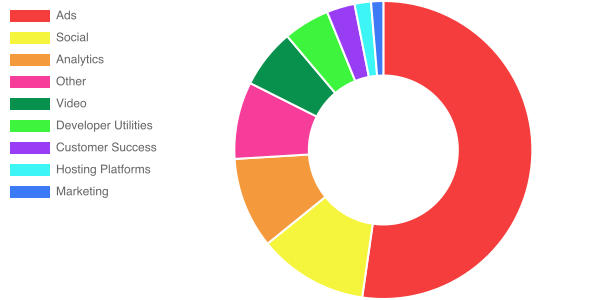
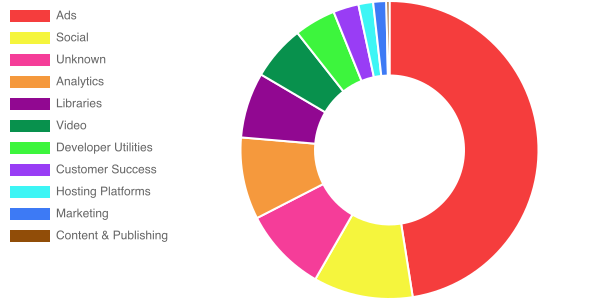
feat: add more entities

diff --git a/bin/merge-origins-with-entities.js b/bin/merge-origins-with-entities.js
@@ -83,16 +83,33 @@ const homelessGrouped = _(homelessEntries)
   .reverse()
   .value()
 
-const sortedEntityData = _(entityData)
+const homelessMegaEntity = {
+  ...combineGroup(homelessEntries),
+  name: 'All Other 3rd Parties',
+  homepage: '#by-category',
+  domain: '<all others>',
+  categories: ['other'],
+}
+
+const sortedEntityData = _(entityData.concat(homelessMegaEntity))
   .sortBy('averageExecutionTime')
   .sortBy('totalExecutionTime')
   .reverse()
   .value()
 
 console.log(homelessGrouped.length, 'domains without attribution')
-console.log(homelessGrouped.map(item => [item.domain, item.origins.join(',')]))
+console.log(
+  homelessGrouped.map(item => [
+    item.domain,
+    item.origins.join(','),
+    Math.round(item.totalExecutionTime / 1000).toLocaleString(),
+  ]),
+)
 
-const top100ExecutionTime = _.sumBy(sortedEntityData.slice(0, 100), 'totalExecutionTime')
+const top100ExecutionTime = _.sumBy(
+  sortedEntityData.filter(e => e !== homelessMegaEntity).slice(0, 100),
+  'totalExecutionTime',
+)
 console.log(
   'Top 100 Entities representing',
   ((top100ExecutionTime / GLOBAL_EXECUTION_TIME) * 100).toFixed(2),

diff --git a/README.md b/README.md
@@ -7,7 +7,8 @@ This document is a summary of which third party scripts are most responsible for
 1.  [Goals](#goals)
 1.  [Methodology](#methodology)
 1.  [Data](#data)
-    1.  [How to Interpret](#how-to-interpet)
+    1.  [Summary](#summary)
+    1.  [How to Interpret](#how-to-interpret)
     1.  [Third Parties by Category](#by-category)
         1.  [Ads](#ad)
         1.  [Analytics](#analytics)
@@ -17,7 +18,9 @@ This document is a summary of which third party scripts are most responsible for
         1.  [Hosting Platforms](#hosting)
         1.  [Marketing](#marketing)
         1.  [Customer Success](#customer-success)
-        1.  [Other](#other)
+        1.  [Content & Publishing](#content)
+        1.  [Libraries](#library)
+        1.  [Unknown](#other)
     1.  [Third Parties by Total Impact](#by-total-impact)
 1.  [Future Work](#future-work)
 1.  [FAQs](#faqs)
@@ -67,24 +70,27 @@ Unsurprisingly, ads account for the largest chunk of third party script executio
 
 These scripts are part of advertising networks, either serving or measuring.
 
-| Rank | Name                                               | Popularity | Average Impact |
-| ---- | -------------------------------------------------- | ---------- | -------------- |
-| 1    | [Criteo](https://www.criteo.com/)                  | 1,879      | 85 ms          |
-| 2    | [Pubmatic](https://pubmatic.com/)                  | 4,462      | 98 ms          |
-| 3    | [Market GID](https://www.marketgid.com/)           | 1,510      | 134 ms         |
-| 4    | [MGID](https://www.mgid.com/)                      | 2,555      | 147 ms         |
-| 5    | [Taboola](https://www.taboola.com/)                | 2,848      | 211 ms         |
-| 6    | [Yahoo Ads](https://www.media.net/)                | 1,990      | 252 ms         |
-| 7    | [AppNexus](https://www.appnexus.com/)              | 2,742      | 266 ms         |
-| 8    | [Google Ads](https://www.google.com/adsense/start) | 389,341    | 445 ms         |
-| 9    | [Integral Ads](https://integralads.com/uk/)        | 6,679      | 447 ms         |
-| 10   | [DoubleVerify](https://www.doubleverify.com/)      | 2,752      | 513 ms         |
-| 11   | [Yandex Ads](https://yandex.com/adv/)              | 4,810      | 515 ms         |
-| 12   | [Media Math](http://www.mediamath.com/)            | 1,523      | 807 ms         |
-| 13   | [Moat](https://moat.com/)                          | 5,599      | 826 ms         |
-| 14   | [MediaVine](https://www.mediavine.com/)            | 1,269      | 1137 ms        |
-| 15   | [WordAds](https://wordads.co/)                     | 766        | 1979 ms        |
-| 16   | [Popads](https://www.popads.net/)                  | 2,808      | 2387 ms        |
+| Rank | Name                                                           | Popularity | Average Impact |
+| ---- | -------------------------------------------------------------- | ---------- | -------------- |
+| 1    | [Criteo](https://www.criteo.com/)                              | 1,879      | 85 ms          |
+| 2    | [Pubmatic](https://pubmatic.com/)                              | 4,462      | 98 ms          |
+| 3    | [Market GID](https://www.marketgid.com/)                       | 1,510      | 134 ms         |
+| 4    | [MGID](https://www.mgid.com/)                                  | 2,555      | 147 ms         |
+| 5    | [Taboola](https://www.taboola.com/)                            | 2,848      | 211 ms         |
+| 6    | [Scorecard Research](https://www.scorecardresearch.com/)       | 479        | 251 ms         |
+| 7    | [Yahoo Ads](https://www.media.net/)                            | 1,990      | 252 ms         |
+| 8    | [AppNexus](https://www.appnexus.com/)                          | 2,742      | 266 ms         |
+| 9    | [Google/Doubleclick Ads](https://www.doubleclickbygoogle.com/) | 389,341    | 445 ms         |
+| 10   | [Integral Ads](https://integralads.com/uk/)                    | 6,679      | 447 ms         |
+| 11   | [DoubleVerify](https://www.doubleverify.com/)                  | 2,752      | 513 ms         |
+| 12   | [Yandex Ads](https://yandex.com/adv/)                          | 4,810      | 515 ms         |
+| 13   | [Sizmek](https://www.sizmek.com/)                              | 1,435      | 598 ms         |
+| 14   | [Media Math](http://www.mediamath.com/)                        | 1,523      | 807 ms         |
+| 15   | [Moat](https://moat.com/)                                      | 5,599      | 826 ms         |
+| 16   | [TrafficJunky](https://www.trafficjunky.com/)                  | 1,527      | 1126 ms        |
+| 17   | [MediaVine](https://www.mediavine.com/)                        | 1,269      | 1137 ms        |
+| 18   | [WordAds](https://wordads.co/)                                 | 766        | 1979 ms        |
+| 19   | [Popads](https://www.popads.net/)                              | 2,808      | 2387 ms        |
 
 <a name="analytics"></a>
 
@@ -94,19 +100,21 @@ These scripts measure or track users and their actions. There's a wide range in 
 
 | Rank | Name                                                               | Popularity | Average Impact |
 | ---- | ------------------------------------------------------------------ | ---------- | -------------- |
-| 1    | [Mixpanel](https://mixpanel.com/)                                  | 1,371      | 75 ms          |
-| 2    | [Google Analytics](https://www.google.com/analytics/analytics/)    | 205,702    | 85 ms          |
-| 3    | [Baidu Analytics](https://tongji.baidu.com/web/welcome/login)      | 12,744     | 90 ms          |
-| 4    | [Hotjar](https://www.hotjar.com/)                                  | 17,635     | 91 ms          |
-| 5    | [Adobe Analytics](https://www.adobe.com/analytics-cloud.html)      | 5,767      | 220 ms         |
-| 6    | [Salesforce](https://www.salesforce.com/products/marketing-cloud/) | 4,804      | 251 ms         |
-| 7    | [Tealium](https://tealium.com/)                                    | 3,066      | 254 ms         |
-| 8    | [Optimizely](https://www.optimizely.com/)                          | 4,671      | 296 ms         |
-| 9    | [Segment](https://segment.com/)                                    | 1,839      | 301 ms         |
-| 10   | [Histats](http://histats.com/)                                     | 1,524      | 341 ms         |
-| 11   | [Connexity](http://connexity.com/)                                 | 1,744      | 361 ms         |
-| 12   | [Yandex Metrica](https://metrica.yandex.com/about?)                | 26,891     | 371 ms         |
-| 13   | [Lucky Orange](https://www.luckyorange.com/)                       | 857        | 937 ms         |
+| 1    | [Alexa](https://www.alexa.com/)                                    | 205        | 46 ms          |
+| 2    | [Mixpanel](https://mixpanel.com/)                                  | 1,371      | 75 ms          |
+| 3    | [Google Analytics](https://www.google.com/analytics/analytics/)    | 205,702    | 85 ms          |
+| 4    | [Baidu Analytics](https://tongji.baidu.com/web/welcome/login)      | 12,744     | 90 ms          |
+| 5    | [Hotjar](https://www.hotjar.com/)                                  | 17,635     | 91 ms          |
+| 6    | [Crazy Egg](https://www.crazyegg.com/)                             | 379        | 97 ms          |
+| 7    | [Adobe Analytics](https://www.adobe.com/analytics-cloud.html)      | 5,767      | 220 ms         |
+| 8    | [Salesforce](https://www.salesforce.com/products/marketing-cloud/) | 4,804      | 251 ms         |
+| 9    | [Tealium](https://tealium.com/)                                    | 3,066      | 254 ms         |
+| 10   | [Optimizely](https://www.optimizely.com/)                          | 4,671      | 296 ms         |
+| 11   | [Segment](https://segment.com/)                                    | 1,839      | 301 ms         |
+| 12   | [Histats](http://histats.com/)                                     | 1,524      | 341 ms         |
+| 13   | [Connexity](http://connexity.com/)                                 | 1,744      | 361 ms         |
+| 14   | [Yandex Metrica](https://metrica.yandex.com/about?)                | 27,474     | 369 ms         |
+| 15   | [Lucky Orange](https://www.luckyorange.com/)                       | 857        | 937 ms         |
 
 <a name="social"></a>
 
@@ -118,12 +126,14 @@ These scripts enable social features.
 | ---- | ---------------------------------------------------- | ---------- | -------------- |
 | 1    | [VK](https://vk.com/)                                | 4,227      | 30 ms          |
 | 2    | [Pinterest](https://pinterest.com/)                  | 410        | 61 ms          |
-| 3    | [Yandex Share](https://yastatic.net/share2/share.js) | 6,865      | 135 ms         |
-| 4    | [Twitter](https://twitter.com)                       | 37,744     | 151 ms         |
-| 5    | [Facebook](https://www.facebook.com)                 | 162,080    | 169 ms         |
-| 6    | [AddThis](http://www.addthis.com/)                   | 36,499     | 202 ms         |
-| 7    | [Tumblr](https://tumblr.com/)                        | 4,717      | 409 ms         |
-| 8    | [ShareThis](https://www.sharethis.com/)              | 3,746      | 477 ms         |
+| 3    | [LinkedIn](https://www.linkedin.com/)                | 990        | 124 ms         |
+| 4    | [Yandex Share](https://yastatic.net/share2/share.js) | 6,865      | 135 ms         |
+| 5    | [Twitter](https://twitter.com)                       | 37,744     | 151 ms         |
+| 6    | [Facebook](https://www.facebook.com)                 | 162,080    | 169 ms         |
+| 7    | [AddThis](http://www.addthis.com/)                   | 36,499     | 202 ms         |
+| 8    | [Tumblr](https://tumblr.com/)                        | 4,717      | 409 ms         |
+| 9    | [ShareThis](https://www.sharethis.com/)              | 3,746      | 477 ms         |
+| 10   | [Disqus](http://disqus.com/)                         | 534        | 680 ms         |
 
 <a name="video"></a>
 
@@ -131,12 +141,13 @@ These scripts enable social features.
 
 These scripts enable video player and streaming functionality.
 
-| Rank | Name                           | Popularity | Average Impact |
-| ---- | ------------------------------ | ---------- | -------------- |
-| 1    | [Vimeo](http://vimeo.com/)     | 3,543      | 140 ms         |
-| 2    | [Wistia](https://wistia.com/)  | 5,062      | 266 ms         |
-| 3    | [YouTube](https://youtube.com) | 54,390     | 411 ms         |
-| 4    | [Twitch](https://twitch.tv/)   | 319        | 701 ms         |
+| Rank | Name                                         | Popularity | Average Impact |
+| ---- | -------------------------------------------- | ---------- | -------------- |
+| 1    | [Vimeo](http://vimeo.com/)                   | 3,543      | 140 ms         |
+| 2    | [Wistia](https://wistia.com/)                | 5,062      | 266 ms         |
+| 3    | [YouTube](https://youtube.com)               | 54,390     | 411 ms         |
+| 4    | [Brightcove](https://www.brightcove.com/en/) | 1,283      | 576 ms         |
+| 5    | [Twitch](https://twitch.tv/)                 | 319        | 701 ms         |
 
 <a name="utility"></a>
 
@@ -180,9 +191,11 @@ These scripts are from marketing tools that add popups/newsletters/etc.
 | ---- | ----------------------------------------- | ---------- | -------------- |
 | 1    | [Hubspot](https://hubspot.com/)           | 4,887      | 92 ms          |
 | 2    | [Mailchimp](https://mailchimp.com/)       | 872        | 194 ms         |
-| 3    | [OptinMonster](https://optinmonster.com/) | 2,352      | 324 ms         |
-| 4    | [Sumo](https://sumo.com/)                 | 6,677      | 379 ms         |
-| 5    | [Drift](https://www.drift.com/)           | 2,315      | 482 ms         |
+| 3    | [Beeketing](https://beeketing.com/)       | 1,360      | 272 ms         |
+| 4    | [OptinMonster](https://optinmonster.com/) | 2,352      | 324 ms         |
+| 5    | [Sumo](https://sumo.com/)                 | 6,677      | 379 ms         |
+| 6    | [Drift](https://www.drift.com/)           | 2,315      | 482 ms         |
+| 7    | [Albacross](https://albacross.com/)       | 158        | 3847 ms        |
 
 <a name="customer-success"></a>
 
@@ -193,30 +206,55 @@ These scripts are from customer support/marketing providers that offer chat and 
 | Rank | Name                                     | Popularity | Average Impact |
 | ---- | ---------------------------------------- | ---------- | -------------- |
 | 1    | [LiveChat](https://www.livechatinc.com/) | 6,252      | 178 ms         |
-| 2    | [Tawk.to](https://www.tawk.to/)          | 2,574      | 278 ms         |
-| 3    | [Olark](https://www.olark.com/)          | 2,734      | 318 ms         |
-| 4    | [Intercom](https://www.intercom.com/)    | 2,795      | 721 ms         |
-| 5    | [Zopim](https://www.zopim.com/)          | 6,367      | 726 ms         |
-| 6    | [ZenDesk](https://zendesk.com/)          | 2,927      | 766 ms         |
+| 2    | [Freshdesk](https://freshdesk.com/)      | 368        | 187 ms         |
+| 3    | [Help Scout](https://www.helpscout.net/) | 228        | 239 ms         |
+| 4    | [Tawk.to](https://www.tawk.to/)          | 2,574      | 278 ms         |
+| 5    | [Olark](https://www.olark.com/)          | 2,734      | 318 ms         |
+| 6    | [Intercom](https://www.intercom.com/)    | 2,795      | 721 ms         |
+| 7    | [Zopim](https://www.zopim.com/)          | 6,367      | 726 ms         |
+| 8    | [ZenDesk](https://zendesk.com/)          | 2,927      | 766 ms         |
 
-<a name="other"></a>
+<a name="content"></a>
 
-#### Other
+#### Content & Publishing
 
-These are miscellaneous scripts delivered via a shared CDN. This category is unique in that the origin may have no responsibility for the performance of what's being served. Note that rank here does not imply one CDN is better than the other. It simply indicates that the scripts being served from that origin are lighter/heavier than the ones served by another.
+These scripts are from content providers or publishing-specific affiliate tracking.
+
+| Rank | Name                                      | Popularity | Average Impact |
+| ---- | ----------------------------------------- | ---------- | -------------- |
+| 1    | [Vox Media](https://www.voxmedia.com/)    | 355        | 360 ms         |
+| 2    | [AMP](https://www.ampproject.org/)        | 1,107      | 366 ms         |
+| 3    | [SoundCloud](https://www.soundcloud.com/) | 499        | 939 ms         |
+| 4    | [Hotmart](https://www.hotmart.com/)       | 114        | 3814 ms        |
+
+<a name="library"></a>
+
+#### Libraries
+
+These are mostly open source libraries (e.g. jQuery) served over different public CDNs. This category is unique in that the origin may have no responsibility for the performance of what's being served. Note that rank here does not imply one CDN is better than the other. It simply indicates that the libraries being served from that origin are lighter/heavier than the ones served by another..
 
 | Rank | Name                                                         | Popularity | Average Impact |
 | ---- | ------------------------------------------------------------ | ---------- | -------------- |
-| 1    | [Bootstrap CDN](https://bootstrapcdn.com/)                   | 213        | 45 ms          |
-| 2    | [FontAwesome CDN](https://fontawesome.com/)                  | 1,275      | 101 ms         |
-| 3    | [Yandex CDN](https://yandex.ru/)                             | 311        | 167 ms         |
-| 4    | [jQuery CDN](https://code.jquery.com/)                       | 20,140     | 168 ms         |
+| 1    | [FontAwesome CDN](https://fontawesome.com/)                  | 1,275      | 101 ms         |
+| 2    | [Yandex CDN](https://yandex.ru/)                             | 311        | 167 ms         |
+| 3    | [jQuery CDN](https://code.jquery.com/)                       | 20,140     | 168 ms         |
+| 4    | [Bootstrap CDN](https://bootstrapcdn.com/)                   | 804        | 190 ms         |
 | 5    | [Cloudflare CDN](https://cdnjs.com/)                         | 15,088     | 192 ms         |
 | 6    | [Google CDN](https://developers.google.com/speed/libraries/) | 85,536     | 212 ms         |
-| 7    | [Amazon S3](https://aws.amazon.com/s3/)                      | 2,625      | 222 ms         |
-| 8    | [JSDelivr](https://www.jsdelivr.com/)                        | 3,537      | 351 ms         |
-| 9    | [Parking Crew](http://parkingcrew.net/)                      | 2,887      | 426 ms         |
-| 10   | [CreateJS CDN](http://code.createjs.com/)                    | 1,685      | 2457 ms        |
+| 7    | [JSDelivr CDN](https://www.jsdelivr.com/)                    | 3,537      | 351 ms         |
+| 8    | [CreateJS CDN](http://code.createjs.com/)                    | 1,685      | 2457 ms        |
+
+<a name="other"></a>
+
+#### Unknown
+
+These are miscellaneous scripts delivered via a shared origin with no clean category or attribution. Help us out by identifying more origins!
+
+| Rank | Name                                    | Popularity | Average Impact |
+| ---- | --------------------------------------- | ---------- | -------------- |
+| 1    | [Amazon S3](https://aws.amazon.com/s3/) | 2,625      | 222 ms         |
+| 2    | [All Other 3rd Parties](#by-category)   | 139,040    | 266 ms         |
+| 3    | [Parking Crew](http://parkingcrew.net/) | 2,887      | 426 ms         |
 
 <a name="by-total-impact"></a>
 
@@ -226,13 +264,14 @@ This section highlights the entities responsible for the most script execution a
 
 | Name                                                               | Popularity | Total Impact | Average Impact |
 | ------------------------------------------------------------------ | ---------- | ------------ | -------------- |
-| [Google Ads](https://www.google.com/adsense/start)                 | 389,341    | 173,140 s    | 445 ms         |
+| [Google/Doubleclick Ads](https://www.doubleclickbygoogle.com/)     | 389,341    | 173,140 s    | 445 ms         |
+| [All Other 3rd Parties](#by-category)                              | 139,040    | 36,972 s     | 266 ms         |
 | [Facebook](https://www.facebook.com)                               | 162,080    | 27,354 s     | 169 ms         |
 | [YouTube](https://youtube.com)                                     | 54,390     | 22,358 s     | 411 ms         |
 | [Google CDN](https://developers.google.com/speed/libraries/)       | 85,536     | 18,098 s     | 212 ms         |
 | [Google Analytics](https://www.google.com/analytics/analytics/)    | 205,702    | 17,504 s     | 85 ms          |
 | [Google APIs/SDK](https://developers.google.com/apis-explorer/#p/) | 104,190    | 13,031 s     | 125 ms         |
-| [Yandex Metrica](https://metrica.yandex.com/about?)                | 26,891     | 9,968 s      | 371 ms         |
+| [Yandex Metrica](https://metrica.yandex.com/about?)                | 27,474     | 10,140 s     | 369 ms         |
 | [AddThis](http://www.addthis.com/)                                 | 36,499     | 7,383 s      | 202 ms         |
 | [Popads](https://www.popads.net/)                                  | 2,808      | 6,702 s      | 2387 ms        |
 | [Twitter](https://twitter.com)                                     | 37,744     | 5,689 s      | 151 ms         |
@@ -250,6 +289,7 @@ This section highlights the entities responsible for the most script execution a
 | [Tumblr](https://tumblr.com/)                                      | 4,717      | 1,931 s      | 409 ms         |
 | [Shopify](https://www.shopify.com/)                                | 8,537      | 1,855 s      | 217 ms         |
 | [ShareThis](https://www.sharethis.com/)                            | 3,746      | 1,787 s      | 477 ms         |
+| [TrafficJunky](https://www.trafficjunky.com/)                      | 1,527      | 1,720 s      | 1126 ms        |
 | [Sentry](https://sentry.io/)                                       | 2,268      | 1,676 s      | 739 ms         |
 | [Hotjar](https://www.hotjar.com/)                                  | 17,635     | 1,613 s      | 91 ms          |
 | [WordAds](https://wordads.co/)                                     | 766        | 1,516 s      | 1979 ms        |
@@ -260,7 +300,7 @@ This section highlights the entities responsible for the most script execution a
 | [Cloudflare](https://www.cloudflare.com/website-optimization/)     | 4,398      | 1,320 s      | 300 ms         |
 | [Yandex APIs](https://yandex.ru/)                                  | 3,558      | 1,303 s      | 366 ms         |
 | [Adobe Analytics](https://www.adobe.com/analytics-cloud.html)      | 5,767      | 1,269 s      | 220 ms         |
-| [JSDelivr](https://www.jsdelivr.com/)                              | 3,537      | 1,243 s      | 351 ms         |
+| [JSDelivr CDN](https://www.jsdelivr.com/)                          | 3,537      | 1,243 s      | 351 ms         |
 | [Media Math](http://www.mediamath.com/)                            | 1,523      | 1,230 s      | 807 ms         |
 | [Parking Crew](http://parkingcrew.net/)                            | 2,887      | 1,229 s      | 426 ms         |
 | [Salesforce](https://www.salesforce.com/products/marketing-cloud/) | 4,804      | 1,205 s      | 251 ms         |
@@ -270,13 +310,16 @@ This section highlights the entities responsible for the most script execution a
 | [Yandex Share](https://yastatic.net/share2/share.js)               | 6,865      | 928 s        | 135 ms         |
 | [WordPress](https://wp.com/)                                       | 7,118      | 890 s        | 125 ms         |
 | [Olark](https://www.olark.com/)                                    | 2,734      | 868 s        | 318 ms         |
+| [Sizmek](https://www.sizmek.com/)                                  | 1,435      | 857 s        | 598 ms         |
 | [Squarespace](https://www.squarespace.com/)                        | 2,115      | 825 s        | 390 ms         |
 | [Lucky Orange](https://www.luckyorange.com/)                       | 857        | 803 s        | 937 ms         |
 | [Tealium](https://tealium.com/)                                    | 3,066      | 779 s        | 254 ms         |
 | [OptinMonster](https://optinmonster.com/)                          | 2,352      | 761 s        | 324 ms         |
+| [Brightcove](https://www.brightcove.com/en/)                       | 1,283      | 739 s        | 576 ms         |
 | [AppNexus](https://www.appnexus.com/)                              | 2,742      | 731 s        | 266 ms         |
 | [Tawk.to](https://www.tawk.to/)                                    | 2,574      | 717 s        | 278 ms         |
 | [Connexity](http://connexity.com/)                                 | 1,744      | 629 s        | 361 ms         |
+| [Albacross](https://albacross.com/)                                | 158        | 608 s        | 3847 ms        |
 | [OneSignal](https://onesignal.com/)                                | 6,420      | 600 s        | 93 ms          |
 | [Taboola](https://www.taboola.com/)                                | 2,848      | 600 s        | 211 ms         |
 | [Amazon S3](https://aws.amazon.com/s3/)                            | 2,625      | 583 s        | 222 ms         |
@@ -285,23 +328,35 @@ This section highlights the entities responsible for the most script execution a
 | [Distil Networks](https://www.distilnetworks.com/)                 | 1,745      | 519 s        | 298 ms         |
 | [Yahoo Ads](https://www.media.net/)                                | 1,990      | 501 s        | 252 ms         |
 | [Vimeo](http://vimeo.com/)                                         | 3,543      | 497 s        | 140 ms         |
+| [SoundCloud](https://www.soundcloud.com/)                          | 499        | 469 s        | 939 ms         |
 | [Hubspot](https://hubspot.com/)                                    | 4,887      | 452 s        | 92 ms          |
 | [Pubmatic](https://pubmatic.com/)                                  | 4,462      | 435 s        | 98 ms          |
+| [Hotmart](https://www.hotmart.com/)                                | 114        | 435 s        | 3814 ms        |
+| [AMP](https://www.ampproject.org/)                                 | 1,107      | 405 s        | 366 ms         |
 | [MGID](https://www.mgid.com/)                                      | 2,555      | 375 s        | 147 ms         |
+| [Beeketing](https://beeketing.com/)                                | 1,360      | 369 s        | 272 ms         |
 | [Stripe](https://stripe.com)                                       | 1,570      | 364 s        | 232 ms         |
+| [Disqus](http://disqus.com/)                                       | 534        | 363 s        | 680 ms         |
 | [Twitch](https://twitch.tv/)                                       | 319        | 224 s        | 701 ms         |
 | [Market GID](https://www.marketgid.com/)                           | 1,510      | 202 s        | 134 ms         |
 | [Mailchimp](https://mailchimp.com/)                                | 872        | 169 s        | 194 ms         |
 | [Criteo](https://www.criteo.com/)                                  | 1,879      | 160 s        | 85 ms          |
+| [Bootstrap CDN](https://bootstrapcdn.com/)                         | 804        | 153 s        | 190 ms         |
 | [PayPal](https://paypal.com)                                       | 588        | 145 s        | 247 ms         |
 | [FontAwesome CDN](https://fontawesome.com/)                        | 1,275      | 128 s        | 101 ms         |
+| [Vox Media](https://www.voxmedia.com/)                             | 355        | 128 s        | 360 ms         |
 | [VK](https://vk.com/)                                              | 4,227      | 126 s        | 30 ms          |
+| [LinkedIn](https://www.linkedin.com/)                              | 990        | 123 s        | 124 ms         |
+| [Scorecard Research](https://www.scorecardresearch.com/)           | 479        | 120 s        | 251 ms         |
 | [Mixpanel](https://mixpanel.com/)                                  | 1,371      | 102 s        | 75 ms          |
+| [Freshdesk](https://freshdesk.com/)                                | 368        | 69 s         | 187 ms         |
+| [Help Scout](https://www.helpscout.net/)                           | 228        | 55 s         | 239 ms         |
 | [Yandex CDN](https://yandex.ru/)                                   | 311        | 52 s         | 167 ms         |
 | [App Dynamics](https://www.appdynamics.com/)                       | 397        | 43 s         | 108 ms         |
+| [Crazy Egg](https://www.crazyegg.com/)                             | 379        | 37 s         | 97 ms          |
 | [Pinterest](https://pinterest.com/)                                | 410        | 25 s         | 61 ms          |
 | [New Relic](https://newrelic.com/)                                 | 373        | 22 s         | 59 ms          |
-| [Bootstrap CDN](https://bootstrapcdn.com/)                         | 213        | 10 s         | 45 ms          |
+| [Alexa](https://www.alexa.com/)                                    | 205        | 10 s         | 46 ms          |
 
 ## Future Work
 
